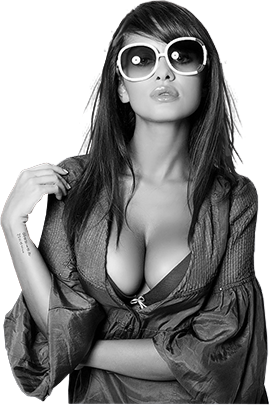
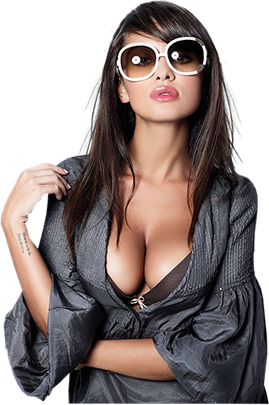
Add files via upload

diff --git a/project/index.html b/project/index.html
@@ -6,6 +6,7 @@
 		<meta name = "viewport" content="width=device-width , initial-scale=1.0"/>
 		<link rel="stylesheet" href = "style.css" type = "text/css">
 		<link rel="stylesheet" type="text/css" href="style_media.css">
+		<link rel="stylesheet" type="text/css" href="style_img_gray.css">
 	</head>
 	<body>
 		<div id = "wraper">
@@ -352,7 +353,49 @@
 			</footer>
 		</div>
 		<script>
+
 			
+
+			if(document.body.clientWidth > 1171)
+			{
+
+			var girl = document.querySelector('.girl_1');
+				girl.onmouseover = function()
+				{
+					var gra_img = document.querySelector('.girl_1 .photo-girl img');
+					gra_img.style.filter = ' grayscale(0%)';
+				}
+
+				girl.onmouseout = function()
+				{
+					var gra_img = document.querySelector('.girl_1 .photo-girl img');
+					gra_img.style.filter = ' grayscale(100%)';
+				}
+
+		var girl = document.querySelector('.girl_2');
+				girl.onmouseover = function()
+				{
+					var gra_img = document.querySelector('.girl_2 .photo-girl img');
+					gra_img.style.filter = ' grayscale(0%)';
+				}
+
+				girl.onmouseout = function()
+				{
+					var gra_img = document.querySelector('.girl_2 .photo-girl img');
+					gra_img.style.filter = ' grayscale(100%)';
+				}
+
+			}
+			else
+			{
+				var gra_img = document.querySelector('.girl_1 .photo-girl img');
+					gra_img.style.filter = ' grayscale(0%)';
+
+				var gra_img = document.querySelector('.girl_2 .photo-girl img');
+					gra_img.style.filter = ' grayscale(0%)';	
+			}
+
+
 		</script>
 	</body>
 </html>

diff --git a/project/style_media.css b/project/style_media.css
@@ -1056,19 +1056,30 @@
 
 	#service_5 .table-div .tab_div .price_massagia span
 	{
-	font-size: 50px;
-	position: relative;
-	left: 20px;
+		font-size: 50px;
+		position: relative;
+		left: 20px;
+	}
+
+	#service_5 .table-div .tab_div .min_massagia:before
+	{
+		content: "";
+		width: 16px;
+		height: 16px;
+		background:url(img/time.png);
+		display: inline-block;
+		position: relative;
+		top:2.2px;
 	}
 
 	#service_5 .table-div .tab_div .price_massagia span:after
 	{
-	content:'BYN';
-	font-size: 13px;
-	position: absolute;
-	top:5px;
-	right:-28px;
-	color: #74452b
+		content:'BYN';
+		font-size: 13px;
+		position: absolute;
+		top:5px;
+		right:-28px;
+		color: #74452b
 	}
 
 	

diff --git a/project/style.css b/project/style.css
@@ -438,6 +438,8 @@ header .phone span:last-child
 	height: 16px;
 	background:url(img/time.png);
 	display: inline-block;
+	position: relative;
+	top:2.2px;
 }
 
 #service_5 .table-div .tab_div .price_massagia

diff --git a/project/style_img_gray.css b/project/style_img_gray.css
@@ -1,0 +1,9 @@
+#service_4 .girl_1 .photo-girl img
+{
+	filter: grayscale(100%)
+}
+
+#service_4 .girl_2 .photo-girl img
+{
+	filter: grayscale(100%)
+}
